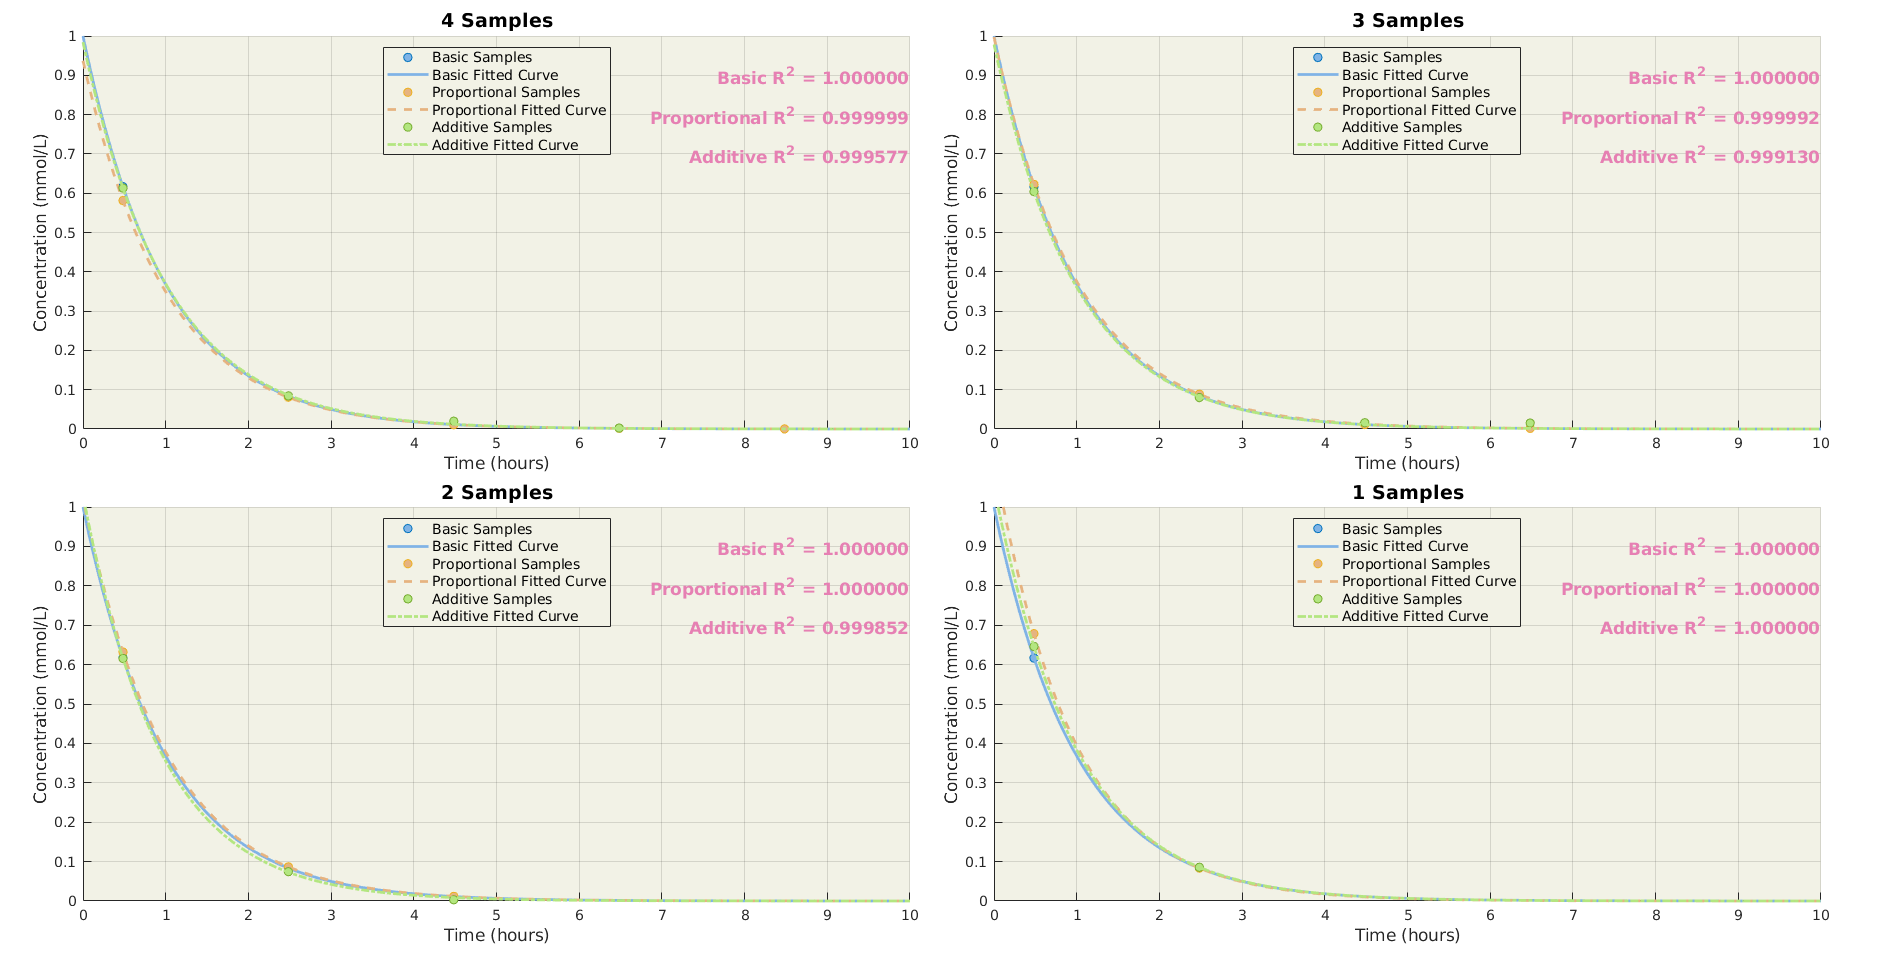
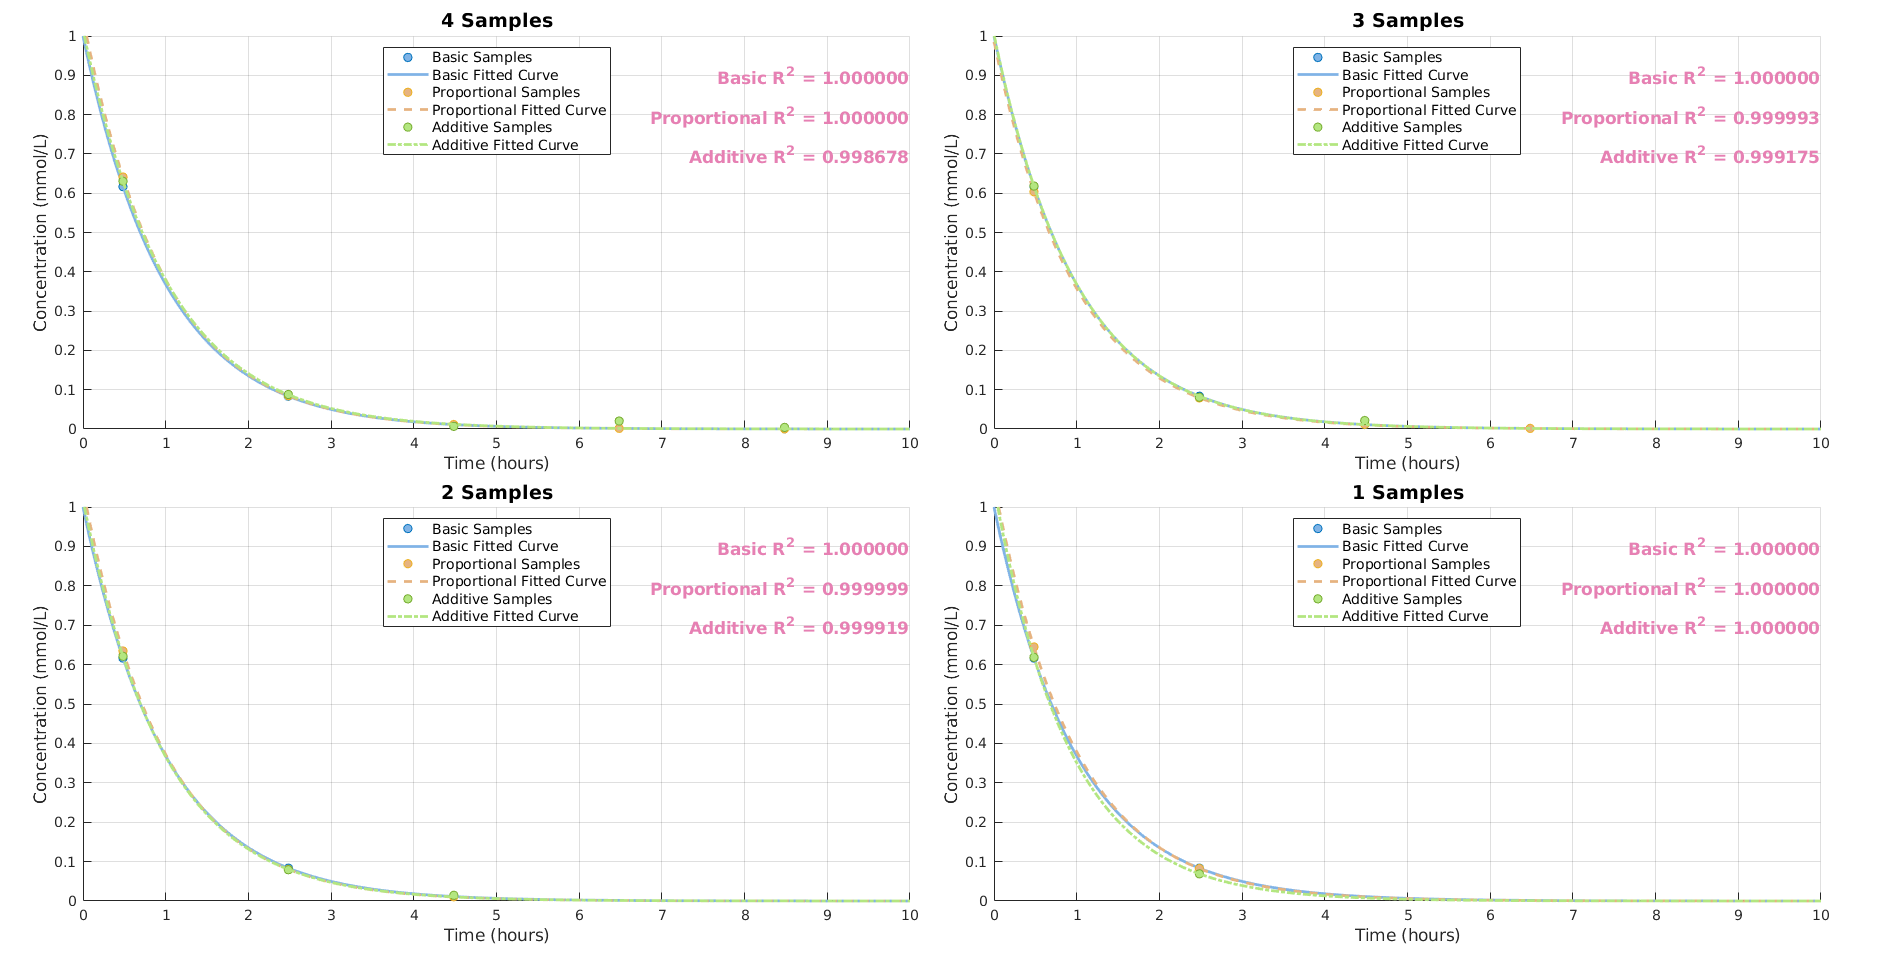
change image bkgd from cream to white

diff --git a/wk3/script.m b/wk3/script.m
@@ -8,11 +8,6 @@ infusion = Model(q, V, kcl);
 y0 = [1, 0];
 tspan = 0:1/60:10;
 
-error_prop = @(samples) 0.05 * samples .* randn(size(samples));
-error_add = @(samples) 0.05 * mean(samples) .* randn(size(samples));
-analytic = @(params, t) params(1)*exp(-params(2)*t);
-lsq_options = optimset('Display', 'off');
-param_fit = @(t, y) lsqcurvefit(analytic, [randn(1), randn(1)], t, y, [], [], lsq_options);
 [t, y] = ode45(@Model.infusionODE, tspan, y0, [], infusion.params);
 
 figure(4); tiledlayout(1, 2)
@@ -26,7 +21,7 @@ plot(teuler, yeuler(:, 1), 'g-.', 'LineWidth', 2);  % Euler solution
 % Adding labels and legends
 xlabel('Time (hours)');
 ylabel('Concentration (mg/L)');
-title('IV Infusion: Concentration-Time Profile');
+% title('IV Infusion: Concentration-Time Profile');
 legend('Analytic Solution', 'ODE45 Solution', 'Euler Solution', 'Location', 'best');
 grid on;
 
@@ -77,7 +72,7 @@ tiledlayout(2, 2, 'TileSpacing', 'Compact', 'Padding', 'Compact');
 for i = 0:3
     % Setup for each tile
     nexttile; hold on;
-    set(gca, 'Color', [0.95, 0.95, 0.9])
+    %set(gca, 'Color', [0.95, 0.95, 0.9])
     % Define slice and samples for the scenario
     slice = 30 + 120*(0:4-i);
     samples = y(slice, 1);
@@ -160,7 +155,7 @@ tiledlayout(2, 2, 'TileSpacing', 'Compact', 'Padding', 'Compact');
 for i = 0:3
     % Setup for each tile
     nexttile; hold on;
-    set(gca, 'Color', [0.95, 0.95, 0.9]); % Cream background for the tiles
+    %set(gca, 'Color', [0.95, 0.95, 0.9]); % Cream background for the tiles
     
     % Define slice and samples for the scenario
     slice = 30 + 120*(0:4-i);
